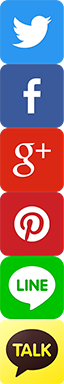
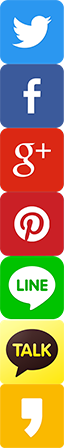
sketchbook5 board skin 1.7.1

diff --git a/modules/board/skins/sketchbook5/css/board.css b/modules/board/skins/sketchbook5/css/board.css
@@ -27,7 +27,7 @@
 .bd_btn.blue{font-weight:700;color:#FFF;text-shadow:0 1px 0 #000;border-color:#669 !important;box-shadow:0 1px 1px rgba(0,0,0,.1);background:#55B url(../img/ie/btn_blue.gif) repeat-x;background:-webkit-gradient(linear,0% 0%,0% 100%,from(#77C),to(#55B));background:linear-gradient(to bottom,#77C 0%,#55B 100%)}
 .bd_btn:hover,.bd_btn:focus,.btn_img:hover,.btn_img:focus{border-color:#AAA;box-shadow:0 1px 4px rgba(0,0,0,.2)}
 .bd_btn[disabled=disabled]{box-shadow:none !important}
-.bd .itx,.bd select{display:inline-block;margin:0;padding:4px 6px;background:#FAFAFA;border-radius:3px;border:1px solid;border-color:#BBB #DDD #DDD #BBB;*display:inline;*zoom:1}
+.bd .itx,.bd select{display:inline-block;margin:0;padding:3px 6px;background:#FAFAFA;border-radius:3px;border:1px solid;border-color:#BBB #DDD #DDD #BBB;*display:inline;*zoom:1}
 .bd .itx{height:28px}
 .bd .itx_wrp{position:relative}
 .bd .itx_wrp label{position:absolute;top:-1px;left:8px;*top:10px}
@@ -55,6 +55,7 @@
 .bd .ico_sns16.facebook{background-position:0 -16px}
 .bd .ico_sns16.google{background-position:0 -32px}
 .bd .ico_sns16.pinterest{background-position:0 -48px}
+.bd .ico_sns16.kakaostory{background-position:0 -96px}
 .bd .ico_sns{width:32px;height:32px;margin:2px;background-image:url(../img/sns.png);opacity:.9}
 .bd .ico_sns:hover{opacity:1}
 .bd .ico_sns.facebook{background-position:0 -32px}
@@ -62,6 +63,7 @@
 .bd .ico_sns.pinterest{background-position:0 -96px}
 .bd .ico_sns.line{background-position:0 -128px}
 .bd .ico_sns.kakao{background-position:0 -160px}
+.bd .ico_sns.kakaostory{background-position:0 -192px}
 /* font awesome */
 .btn_img .fa,.img_tx .fa{width:16px;letter-spacing:0;text-align:center}
 .img_tx .fa{color:#AAA}
@@ -69,7 +71,7 @@
 /* Toggle */
 .tg_cnt2{display:none}
 .tg_blur2,.bd .blur{position:absolute;top:0;left:0;border:0;background:none;width:1px;height:1px;overflow:hidden}
-.bd .tg_close2,#install_ng2 .tg_close2{position:absolute;top:0;right:0;border:0;background:transparent;font:20px Tahoma,AppleGothic,sans-serif;color:#999}
+.bd .tg_close2,#install_ng2 .tg_close2{position:absolute;top:0;right:0;border:0;background:transparent;font:20px sans-serif;color:#999}
 /* Bubble */
 .bubble{position:relative}
 .bubble .wrp{display:none;position:absolute;left:50%;bottom:100%;z-index:100;margin:8px 0;font-size:11px;background:#FFF;border:1px solid #999;border-radius:5px;white-space:nowrap;box-shadow:1px 1px 3px rgba(0,0,0,.2);*text-decoration:none}
@@ -149,7 +151,7 @@
 /* Title */
 .bd_tl{float:left;margin:4px 16px 28px;*padding-bottom:24px}
 .bd_tl h1,.bd_tl h2{margin:0;padding:0 20px;font-size:16px;line-height:22px}
-.bd_tl a{float:left;text-decoration:none;color:#555}
+.bd_tl a{float:left;text-decoration:none !important;color:#555}
 .bd_tl i{display:block;position:absolute;top:0;left:0;width:12px;height:22px;border-radius:2px}
 .bd_tl h2{margin-top:2px;font-size:11px;line-height:11px;color:#888}
 .bd_tl h2 i{height:12px;filter:alpha(opacity=70);opacity:.7}
@@ -548,6 +550,7 @@
 .cmt_line{padding:20px;text-align:center}
 .context_data{clear:both;padding:12px 24px;background:#F9F9F9;border-top:2px solid #666}
 .secretMessage h3,.context_data h3,.context_data p{margin:12px 0}
+.secretMessage small{color:#999}
 .context_data p.author strong{font-weight:400}
 .context_message{text-align:center;border-top:2px solid #666}
 .context_message h1{font-size:1.3em;margin:1.6em}
@@ -733,6 +736,7 @@
 
 /* Mobile List */
 .bd_m_lst.zine>li{margin:0;padding:12px}
+.bd_m_lst>.select{background:rgba(200,200,200,.1)}
 .bd_m_lst .rt_area{margin:0 !important}
 .bd_m_lst .tmb_wrp img{width:70px;height:auto}
 .bd_m_lst .is_tmb{padding-left:84px}
@@ -812,6 +816,7 @@ body.viewer_blk{background:#222}
 #viewer .if_viewer{display:none}
 #viewer .fdb_lst_wrp{margin:30px 0 0}
 #viewer_lst{position:fixed;top:0;left:-455px;z-index:20;width:320px;height:100%;padding:0 20px 0 120px;background:#FFF;box-shadow:0 0 8px rgba(0,0,0,.3),inset -12px 0 24px 0 rgba(0,0,0,.04)}
+#viewer_lst .tg_close2{top:4px;right:4px}
 #viewer_lst_tg{display:block;position:absolute;top:50%;left:100%;margin:-46px 0 0;padding:16px 10px;border:0;border-radius:0 4px 4px 0;box-shadow:inset -1px 0 6px rgba(255,255,255,.2),inset 5px 0 8px rgba(0,0,0,.08),1px 1px 3px rgba(0,0,0,.2);line-height:15px;color:#FFF;text-shadow:0 1px 0 rgba(0,0,0,.1);cursor:pointer}
 #viewer_lst_tg .tx_open,.open #viewer_lst_tg .tx_close{display:block}
 .open #viewer_lst_tg .tx_open,#viewer_lst_tg .tx_close{display:none}
@@ -859,7 +864,7 @@ body.viewer_blk{background:#222}
 .m_editor{margin:12px 0 8px}
 .m_editor textarea{width:100%}
 /* ipad2+ */
-@media only screen and (max-width:768px){
+@media only screen and (max-width:800px){
 .bd .ico_sns{background-image:url(../img/sns_64.png);background-size:32px auto;opacity:1}
 .bd iframe,.bd video{max-width:100%;min-width:240px;margin:0 auto}
 .bd img{max-width:100%;height:auto}

diff --git a/modules/board/skins/sketchbook5/_read.html b/modules/board/skins/sketchbook5/_read.html
@@ -5,7 +5,7 @@
 	if(!$mi->rd_btm_font) $mi->rd_btm_font='ngeb';
 	if(!$mi->prev_next_cut_size) $mi->prev_next_cut_size=60;
 	$sns_link=$oDocument->getPermanentUrl().'?l='.$lang_type;
-	$sns_title=urlencode($oDocument->getTitle());
+	$sns_title=htmlentities($oDocument->getTitle());
 }
 
 <div class="rd<!--@if(!$mi->rd_nav_style)--> rd_nav_style2<!--@end--><!--@if($mi->default_style=='blog')--> rd_blog {$mi->blog_style}<!--@end--> clear" style="padding:{$mi->rd_padding};" data-docSrl="{$oDocument->document_srl}">
@@ -191,7 +191,7 @@
 <!--// 현재목록 외 이전글-다음글 구하기 
 Source form : http://www.xpressengine.com/21617245 by 시니시즘. Thanks!
 1. search : X
-2. get image : X
+2. get image : /
 3. except_notice : /
 -->
 		<div cond="$mi->prev_next!='N' && !$oDocument->isNotice() && $mi->default_style!='blog'" class="bd_prev_next clear" style="display:none"|cond="$mi->prev_next=='2'">
@@ -236,6 +236,12 @@ Source form : http://www.xpressengine.com/21617245 by 시니시즘. Thanks!
 	$prevnext_title = $document2->title;
 	$prevnext_date = $document2->regdate;
 	$prevnext_nick = $document2->nick_name;
+	$thumbnail_path = sprintf('files/thumbnails/%s',getNumberingPath($prevnext_doc, 3));
+	$thumbnail_type_tmp = $mi->thumbnail_type;
+	if(!$thumbnail_type_tmp) $thumbnail_type_tmp = 'crop';
+	$thumbnail_file = sprintf('%s%dx%d.%s.jpg', $thumbnail_path, $mi->thumbnail_width, $mi->thumbnail_height, $thumbnail_type_tmp);
+	$thumbnail_url  = Context::getRequestUri().$thumbnail_file;
+	if(file_exists($thumbnail_file)) $prevnext_thumb = $thumbnail_url;
 	break;
 }
 </block>
@@ -268,6 +274,7 @@ Source form : http://www.xpressengine.com/21617245 by 시니시즘. Thanks!
 				<!--@end-->
 					<span class="wrp prev_next">
 						<span class="speech">
+							<img cond="$prevnext_thumb" src="{$prevnext_thumb}" alt="" />
 							<b>{$prevnext_title}</b>
 							<span><em>{zdate($prevnext_date,'Y.m.d')}</em><small>by </small>{$prevnext_nick}</span>
 						</span><i class="edge"></i>
@@ -308,14 +315,16 @@ Source form : http://www.xpressengine.com/21617245 by 시니시즘. Thanks!
 			</a>
 		</div>
 		<!--// SNS -->
-		<div cond="$mi->to_sns=='3'" class="to_sns big" style="text-align:{$mi->to_sns_big}" data-url="{$sns_link}" data-title="{$sns_title}">
+		<div cond="$mi->to_sns=='3'" class="to_sns big" style="text-align:{$mi->to_sns_big}" data-url="{$sns_link}" data-permanenturl="{$oDocument->getPermanentUrl()}" data-title="{$sns_title}">
 			<a class="facebook bubble" href="#" data-type="facebook" title="To Facebook"><b class="ico_sns facebook">Facebook</b></a>
 			<a class="twitter bubble" href="#" data-type="twitter" title="To Twitter"><b class="ico_sns twitter">Twitter</b></a>
 			<a class="google bubble" href="#" data-type="google" title="To Google"><b class="ico_sns google">Google</b></a>
 			<a class="pinterest bubble" href="#" data-type="pinterest" title="To Pinterest"><b class="ico_sns pinterest">Pinterest</b></a>
+			<a cond="!Mobile::isMobileCheckByAgent()" class="kakaostory bubble" href="#" data-type="kakaostory" title="To KakaoStory"><b class="ico_sns kakaostory">KakaoStory</b></a>
 			<block cond="Mobile::isMobileCheckByAgent()">
-			<a class="line bubble" href="line://msg/text/?{$sns_title}%0D%0A{$sns_link}" title="To Line"><b class="ico_sns line">Line</b></a>
-			<a class="kakao bubble" href="kakaolink://sendurl?msg={$sns_title}&url={$sns_link}&appid=m.kakao.com&appver=2.0&appname=카카오" title="To Kakao Talk"><b class="ico_sns kakao">Kakao</b></a>
+			<a class="kakaostory" href="storylink://posting?post={$oDocument->getPermanentUrl()}&appid=m.kakao.com&appver=1.0&apiver=1.0&appname={$mi->title}"><b class="ico_sns kakaostory">KakaoStory</b></a>
+			<a class="line" href="line://msg/text/?{$sns_title}%0D%0A{$sns_link}"><b class="ico_sns line">Line</b></a>
+			<a class="kakao" href="#" data-type="kakao"><b class="ico_sns kakao">Kakao</b></a>
 			</block>
 		</div>
 		<div cond="$mi->to_sns=='4' && $mi->to_sns_content" class="to_sns small clear">{$mi->to_sns_content}</div>

diff --git a/modules/board/skins/sketchbook5/js/board.js b/modules/board/skins/sketchbook5/js/board.js
@@ -43,7 +43,7 @@ function board(bdObj){
 			var t = $(this);
 			t.append('<i class="edge"></i>');
 			if(ie8Check) t.prepend('<i class="ie8_only bl"></i><i class="ie8_only br"></i>');
-			if(t.width() > $('html,body').width()-t.offset().left){
+			if(t.width() > $('body').width()-t.offset().left){
 				t.addClass('flip');
 			};
 		});
@@ -158,7 +158,9 @@ function board(bdObj){
 
 // Scroll
 	bd.find('a.back_to').click(function(){
-		$('html,body').animate({scrollTop:$($(this).attr('href')).offset().top},{duration:1000,specialEasing:{scrollTop:'easeInOutExpo'}});
+		var t = $('body');
+		if(navigator.userAgent.toLowerCase().match(/trident/i)) var t = $('html');
+		t.animate({scrollTop:$($(this).attr('href')).offset().top},{duration:1000,specialEasing:{scrollTop:'easeInOutExpo'}});
 		return false;
 	});
 
@@ -326,7 +328,7 @@ if(bd.find('div.rd').length){
 	};
 	bd.find('a.rd_next').mouseover(rdNext).focus(rdNext);
 	// Hide : et_vars, prev_next
-	bd.find('.fdb_hide,.rd_file.hide,.fdb_lst .cmt_files').hide();
+	bd.find('.fdb_hide,.rd_file.hide_file,.fdb_lst .cmt_files').hide();
 	if(bd.find('.rd table.et_vars th').length) bd.find('.rd table.et_vars').show();
 	if(!bd.find('.bd_rd_prev').length) bd.find('a.rd_prev').hide();
 	if(!bd.find('.bd_rd_next').length) bd.find('a.rd_next').hide();
@@ -386,20 +388,52 @@ if(bd.find('div.rd').length){
 	// To SNS
 	bd.find('.to_sns a').click(function(){
 		var t = $(this);
-		var type = t.attr('data-type');
+		var type = t.data('type');
 		var p = t.parent();
-		var url = p.attr('data-url');
-		var title = p.attr('data-title');
+		var href = p.data('url');
+		var permanentUrl = p.data('permanenturl');
+		var title = p.data('title');
+		var img = bd.find('div.xe_content img:first').attr('src');
 		if(!type){
 			return;
 		} else if(type=="facebook"){
-			var loc = '//www.facebook.com/sharer/sharer.php?u='+url+'&t='+title;
+			var loc = '//www.facebook.com/sharer/sharer.php?u='+href+'&t='+title;
 		} else if(type=="twitter"){
-			loc = '//twitter.com/home?status='+title+' '+url;
+			loc = '//twitter.com/home?status='+title+' '+href;
 		} else if(type=="google"){
-			loc = '//plus.google.com/share?url='+url;
+			loc = '//plus.google.com/share?url='+href;
 		} else if(type=="pinterest"){
-			loc = '//pinterest.com/pin/create/bookmarklet/?url='+url+'&description='+title;
+			if(!img){
+				alert('No Image!');
+				return false;
+			};
+			loc = '//www.pinterest.com/pin/create/button/?url='+href+'&media='+img+'&description='+title;
+		} else if(type=="kakaostory"){
+			loc = 'https://story.kakao.com/share?url='+encodeURIComponent(href);
+		} else if(type=="kakao"){
+			if(img){
+				Kakao.Link.sendTalkLink({
+					label:title,
+					image:{
+						src:img,
+						width: '300',
+						height: '200'
+					},
+					webLink:{
+						text:permanentUrl,
+						url:href
+					}
+				});
+			} else {
+				Kakao.Link.sendTalkLink({
+					label:title,
+					webLink:{
+						text:permanentUrl,
+						url:href
+					}
+				});
+			};
+			return false;
 		};
 		window.open(loc);
 		return false;

diff --git a/modules/board/skins/sketchbook5/__setting.html b/modules/board/skins/sketchbook5/__setting.html
@@ -169,7 +169,7 @@
 <load cond="$mi->colorset=='black'" target="css/black.css" />
 
 <!--// 커스텀 파일 넣기 -->
-<include cond="is_dir(_XE_PATH_.'/modules/board/skins/sketchbook5/custom')" target="custom/custom.php" />
+<include cond="file_exists(_XE_PATH_.'modules/board/skins/sketchbook5/custom/custom.php')" target="custom/custom.php" />
 
 <style data-id="bdCss">
 <!--@if($mi->font)-->
@@ -248,7 +248,7 @@
 <block cond="$mi->zine_style=='3' || $mi->zine_style=='4'">
 .bd_zine{margin:0 auto;padding:{$mi->zine_margin}px 0}
 .bd_zine li{width:{$mi->zine_thumb_width}px;margin:{$mi->zine_margin}px}
-.bd_zine .tmb_wrp .no_img{width:{$mi->zine_thumb_width-2}px;<!--@if($mi->thumbnail_type=='crop')-->height:{$mi->zine_thumb_width-2}px;line-height:{$mi->zine_thumb_width-2}px<!--@else-->height:120px;line-height:120px<!--@end-->;border:1px solid #DDD}
+.bd_zine .tmb_wrp .no_img{width:{$mi->zine_thumb_width-2}px;<!--@if($mi->thumbnail_type=='crop')-->height:{$mi->zine_thumb_width-2}px;line-height:{$mi->zine_thumb_width-2}px<!--@else-->height:118px;line-height:118px<!--@end-->;border:1px solid #DDD}
 <!--@if($mi->zine_thumb_width > 399)-->
 .bd_zine.card h3{font-size:15px}
 .bd_zine.card .cnt{margin-top:1.5em}
@@ -287,7 +287,7 @@
 <!--@elseif($mi->default_style=='gallery')-->
 <!--// Gallery -->
 .bd_tmb_lst li{float:{$mi->gall_align};width:{$mi->thumbnail_width+40}px;height:{$mi->thumbnail_height+80}px;width:{$mi->li_width}px;height:{$mi->li_height}px}
-.bd_tmb_lst .no_img{width:{$mi->thumbnail_width}px;<!--@if($mi->thumbnail_type=='crop')-->height:{$mi->thumbnail_height}px;line-height:{$mi->thumbnail_height}px<!--@else-->height:{$mi->thumbnail_width}px;line-height:{$mi->thumbnail_width}px<!--@end-->}
+.bd_tmb_lst .no_img{width:{$mi->thumbnail_width}px;<!--@if($mi->thumbnail_type=='crop')-->height:{$mi->thumbnail_height}px;line-height:{$mi->thumbnail_height}px<!--@else-->height:120px;line-height:120px<!--@end-->}
 .bd_tmb_lst .deco_img{background-image:url({$mi->deco_img})}
 .bd_tmb_lst .tmb_wrp,.bd_tmb_lst.gall_style2 .tmb_wrp{max-width:{$mi->thumbnail_width}px;{$mi->thumb_css} }
 <block cond="$mi->tmb_hover_bg">

diff --git a/modules/board/skins/sketchbook5/_read_sns.html b/modules/board/skins/sketchbook5/_read_sns.html
@@ -1,19 +1,7 @@
-<div class="rd_nav img_tx to_sns fl" data-url="{$sns_link}" data-title="{$sns_title}">
+<div class="rd_nav img_tx to_sns fl" data-url="{$sns_link}" data-permanenturl="{$oDocument->getPermanentUrl()}" data-title="{$sns_title}">
 	<a class="{$mi->to_sns_small}" href="#" data-type="facebook" title="To Facebook"><i class="ico_sns16 facebook"></i><strong> Facebook</strong></a>
 	<a class="{$mi->to_sns_small}" href="#" data-type="twitter" title="To Twitter"><i class="ico_sns16 twitter"></i><strong> Twitter</strong></a>
 	<a class="{$mi->to_sns_small}" href="#" data-type="google" title="To Google"><i class="ico_sns16 google"></i><strong> Google</strong></a>
 	<a class="{$mi->to_sns_small}" href="#" data-type="pinterest" title="To Pinterest"><i class="ico_sns16 pinterest"></i><strong> Pinterest</strong></a>
+	<a class="{$mi->to_sns_small}" href="#" data-type="kakaostory" title="To KakaoStory"><i class="ico_sns16 kakaostory"></i><strong> KakaoStory</strong></a>
 </div>
-
-
-		<!--// SNS -->
-		<div cond="$mi->to_sns=='3'" class="to_sns big" style="text-align:{$mi->to_sns_big}">
-			<a class="facebook bubble" href="#" data-type="facebook" title="To Facebook"><b class="ico_sns facebook">Facebook</b></a>
-			<a class="twitter bubble" href="#" data-type="twitter" title="To Twitter"><b class="ico_sns twitter">Twitter</b></a>
-			<a class="google bubble" href="#" data-type="google" title="To Google"><b class="ico_sns google">Google</b></a>
-			<a class="pinterest bubble" href="#" data-type="pinterest" target="_blank" title="To Pinterest"><b class="ico_sns pinterest">Pinterest</b></a>
-			<block cond="Mobile::isMobileCheckByAgent()">
-			<a class="line bubble" href="line://msg/text/?{$sns_title}%0D%0A{$sns_link}" title="To Line"><b class="ico_sns line">Line</b></a>
-			<a class="kakao bubble" href="kakaolink://sendurl?msg={$sns_title}&url={$sns_link}&appid=m.kakao.com&appver=2.0&appname=카카오" title="카카오톡으로 링크보내기"><b class="ico_sns kakao">Kakao</b></a>
-			</block>
-		</div>

diff --git a/modules/board/skins/sketchbook5/_list_guest.html b/modules/board/skins/sketchbook5/_list_guest.html
@@ -73,7 +73,7 @@ $mi->fdb_style='fdb_v2';
 			<input type="hidden" name="mid" value="{$mid}" />
 			<input type="hidden" name="page" value="{$page}" />
 			<input type="hidden" name="document_srl" value="{$oDocument->document_srl}" />
-			<p>&quot;{$lang->msg_is_secret}&quot;</p>
+			<p>&quot;{$lang->msg_is_secret}&quot; <small>({$oDocument->getNickName()} {$oDocument->getRegdate('Y.m.d')})</small></p>
 			<span class="itx_wrp">
 				<label for="cpw_{$oDocument->document_srl}">{$lang->password}</label>
 				<input type="password" name="password" id="cpw_{$oDocument->document_srl}" class="itx" />

diff --git a/modules/board/skins/sketchbook5/_viewer.html b/modules/board/skins/sketchbook5/_viewer.html
@@ -64,7 +64,7 @@ body,input,textarea,select,button,table{font-family:{$_COOKIE['bd_viewer_font']}
 				<a cond="$page!=$page_no" href="{getUrl('page',$page_no,'division',$division,'last_division',$last_division)}">{$page_no}</a>
 				</block>
 			</div>
-			<button type="button" class="tg_close2" onClick="jQuery('#viewer_lst_tg').click();">X</button>
+			<button type="button" class="tg_close2" onClick="jQuery('#viewer_lst_tg').click();" title="{$lang->cmd_close}">X</button>
 		</div>
 
 	<include target="_footer.html" />

diff --git a/modules/board/skins/sketchbook5/_list_gallery.html b/modules/board/skins/sketchbook5/_list_gallery.html
@@ -1,4 +1,6 @@
-<block cond="!$mi->gall_tl_font">{@ $mi->gall_tl_font = np }</block>
+<block cond="!$mi->gall_tl_font">
+{@ $mi->gall_tl_font = 'np';}
+</block>
 
 <include cond="$notice_list && $mi->notice_style=='2'" target="_notice.html" />
 <ol class="bd_lst bd_tmb_lst gall_style{$mi->gall_style} img_load{$mi->tmb_effect} tmb_bg{$mi->tmb_hover_bg} clear" data-gall_deg="{$mi->gall_deg}"|cond="$mi->gall_deg"><!--// 

diff --git a/modules/board/skins/sketchbook5/list.html b/modules/board/skins/sketchbook5/list.html
@@ -15,6 +15,11 @@ jQuery(function($){
 	$.cookie('bd_viewer_font',$('body').css('font-family'));
 <!--@end-->
 });
+<!--@if(Mobile::isMobileCheckByAgent())-->
+<load target="https://developers.kakao.com/sdk/js/kakao.min.js" />
+// kakao
+Kakao.init('<!--@if($mi->kakao_key)-->{$mi->kakao_key}<!--@else-->5e9dc559053190b954c88a8b83bbd68d<!--@end-->');
+<!--@end-->
 //]]></script>
 
 <!--// 뷰어로 보기 -->

diff --git a/modules/board/skins/sketchbook5/_read_files.html b/modules/board/skins/sketchbook5/_read_files.html
@@ -1,4 +1,4 @@
-<div id="files_{$oDocument->document_srl}" class="rd_fnt rd_file<!--@if(!$mi->show_files)--> hide<!--@end-->">
+<div id="files_{$oDocument->document_srl}" class="rd_fnt rd_file<!--@if(!$mi->show_files)--> hide_file<!--@end-->">
 <table class="bd_tb">
 	<caption class="blind">Atachment</caption>
 	<tr>
